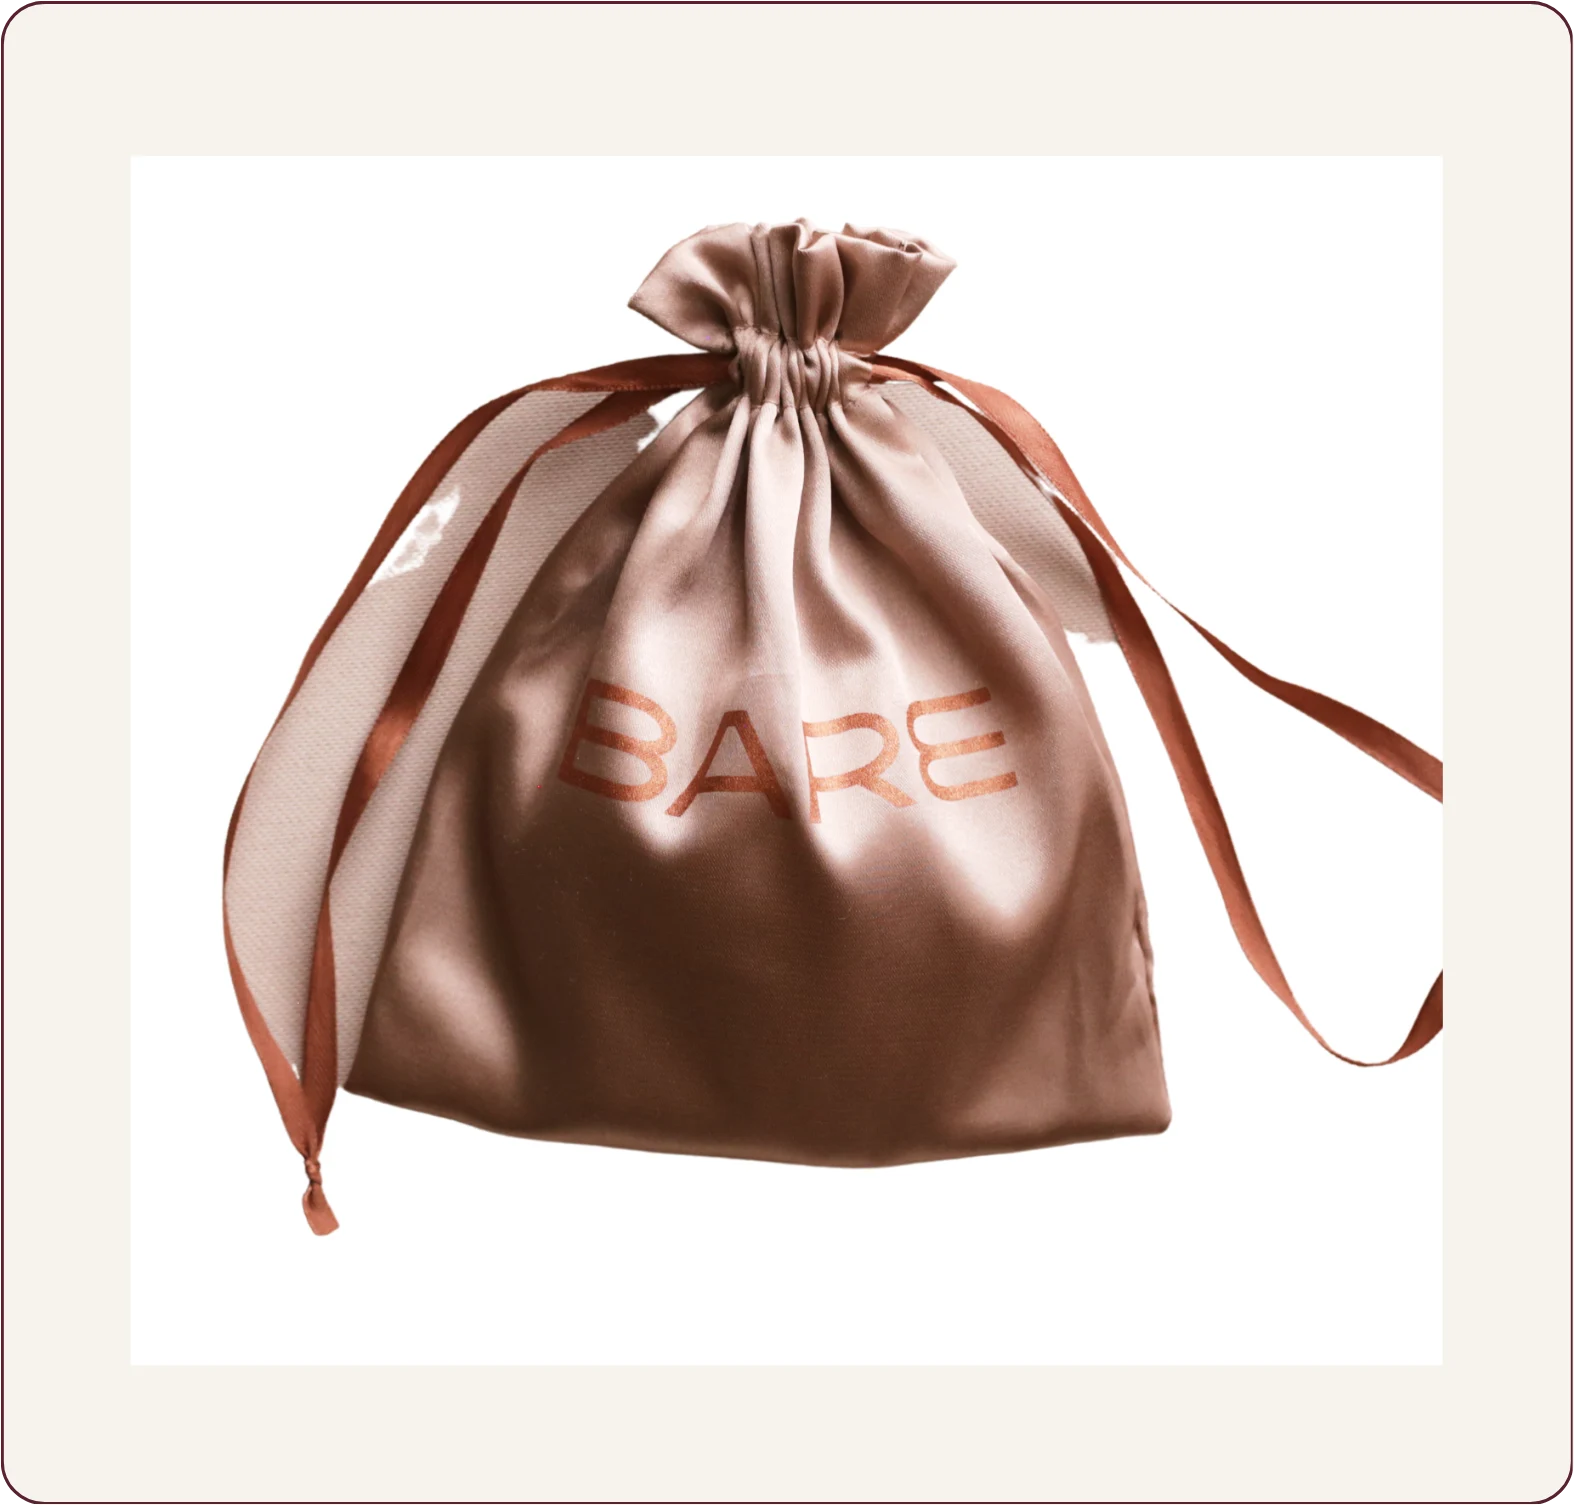
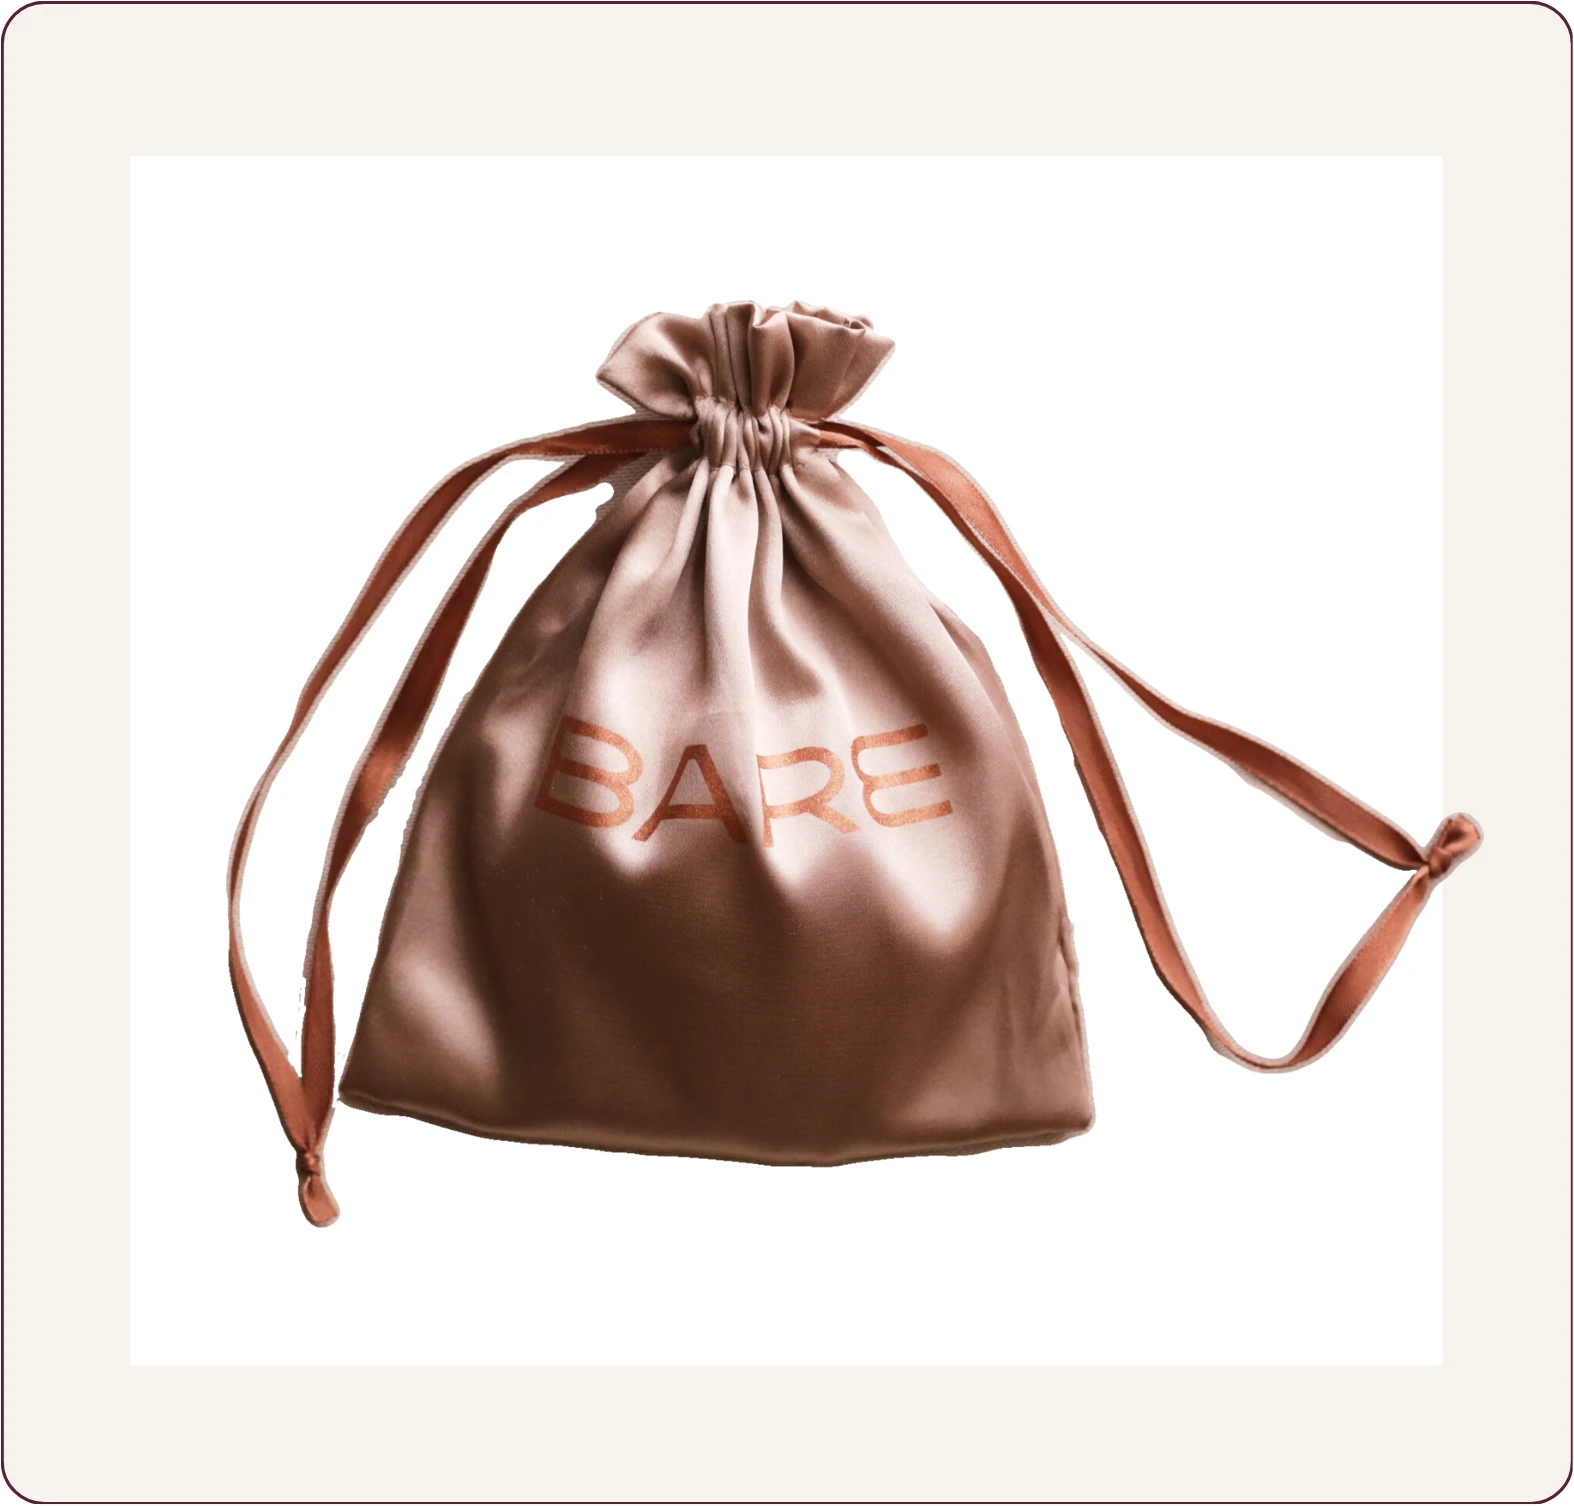
Update zip bags section and make buttons consistent

Changed region(s): [[0.1245, 0.1248, 0.9651, 0.8426], [0.9028, 0.6554, 0.9339, 0.6866]]

diff --git a/resources/views/shop/includes/travel-bags.blade.php b/resources/views/shop/includes/travel-bags.blade.php
@@ -5,9 +5,9 @@
                 <div class="carousel-item active">
                     <div class="row justify-content-center align-items-center">
                         <div class="col-11 col-sm-8 col-md-7 col-lg-6">
-                            <div class="card mb-5 mb-lg-0" style="border:0">
-                                <div class="card-body tw-bg-[#F6F3EE] p-4 p-sm-5">
-                                    <img src="{{ asset('img/shop/products/zip-bag.webp') }}" class="w-100" />
+                            <div class="card mb-5 mb-lg-0" style="background-color:rgba(0,0,0,0); border:0">
+                                <div class="card-body p-0">
+                                    <img src="{{ asset('img/shop/products/zip-bag-2.webp') }}" class="w-100" />
                                 </div>
                             </div>
                         </div>
@@ -20,7 +20,7 @@
                                     <p class="text-white cerebri-sans-pro-medium text-center text-lg-start font-size-90 font-size-lg-100 line-height-xl-170 letter-spacing-10 mb-5">Stay organized and prepared with our complimentary Ziplock Bags. These handy storage solutions are made from tough materials, ensuring both practicality and visibility. Their small size fits perfectly in your purse, gym bag, or suitcase, guaranteeing that your nipple covers are always within reach. A considerate addition to your purchase, offering convenience and peace of mind.</p>
 
                                     <div class="text-center text-lg-start">
-                                        <a href="{{ route('shop.category', 'nipple-covers') }}" class="btn btn-custom-5 cerebri-sans-pro-bold letter-spacing-5 font-size-120 font-size-lg-130 font-size-xl-140 tw-pt-[8px] lg:tw-pt-[10px] px-4">SHOP NIPPLE COVERS</a>
+                                        <a href="{{ route('shop.category', 'nipple-covers') }}" class="btn btn-custom-3 cerebri-sans-pro-bold letter-spacing-5 font-size-120 font-size-lg-130 font-size-xl-140 tw-pt-[8px] lg:tw-pt-[10px] px-4">SHOP NIPPLE COVERS</a>
                                     </div>
                                 </div>
                             </div>
@@ -31,34 +31,8 @@
                 <div class="carousel-item">
                     <div class="row justify-content-center align-items-center">
                         <div class="col-11 col-sm-8 col-md-7 col-lg-6">
-                            <div class="card mb-5 mb-lg-0" style="border:0">
-                                <div class="card-body tw-bg-[#F6F3EE] p-4 p-sm-5">
-                                    <img src="{{ asset('img/shop/products/zip-pouch-1.webp') }}" class="w-100" />
-                                </div>
-                            </div>
-                        </div>
-
-                        <div class="col-lg-6">
-                            <div class="ps-md-4">
-                                <div class="ps-xl-4 ps-xxl-5">
-                                    <p class="text-white cerebri-sans-pro-medium text-center text-lg-start font-size-180 font-size-sm-200 font-size-md-220 line-height-130 mb-3 mb-lg-2">ZIP POUCH</p>
-
-                                    <p class="text-white cerebri-sans-pro-medium text-center text-lg-start font-size-90 font-size-lg-100 line-height-xl-170 letter-spacing-10 mb-5">Care for your nipple covers with our Dust Bags. These essential accessories ensure your covers stay clean and free from debris. Crafted from soft, breathable fabric, the drawstring closure provides a hygienic storage solution, preserving your nipple covers' quality and longevity.</p>
-
-                                    <div class="text-center text-lg-start">
-                                        <a href="{{ route('shop.category', 'nipple-covers') }}" class="btn btn-custom-5 cerebri-sans-pro-bold letter-spacing-5 font-size-120 font-size-lg-130 font-size-xl-140 tw-pt-[8px] lg:tw-pt-[10px] px-4">SHOP NIPPLE COVERS</a>
-                                    </div>
-                                </div>
-                            </div>
-                        </div>
-                    </div>
-                </div>
-
-                <div class="carousel-item">
-                    <div class="row justify-content-center align-items-center">
-                        <div class="col-11 col-sm-8 col-md-7 col-lg-6">
-                            <div class="card mb-5 mb-lg-0" style="border:0">
-                                <div class="card-body tw-bg-[#F6F3EE] p-4 p-sm-5">
+                            <div class="card mb-5 mb-lg-0" style="background-color:rgba(0,0,0,0); border:0">
+                                <div class="card-body p-0">
                                     <img src="{{ asset('img/shop/products/zip-pouch-2.webp') }}" class="w-100" />
                                 </div>
                             </div>
@@ -72,7 +46,7 @@
                                     <p class="text-white cerebri-sans-pro-medium text-center text-lg-start font-size-90 font-size-lg-100 line-height-xl-170 letter-spacing-10 mb-5">Care for your nipple covers with our Dust Bags. These essential accessories ensure your covers stay clean and free from debris. Crafted from soft, breathable fabric, the drawstring closure provides a hygienic storage solution, preserving your nipple covers' quality and longevity.</p>
 
                                     <div class="text-center text-lg-start">
-                                        <a href="{{ route('shop.category', 'nipple-covers') }}" class="btn btn-custom-5 cerebri-sans-pro-bold letter-spacing-5 font-size-120 font-size-lg-130 font-size-xl-140 tw-pt-[8px] lg:tw-pt-[10px] px-4">SHOP NIPPLE COVERS</a>
+                                        <a href="{{ route('shop.category', 'nipple-covers') }}" class="btn btn-custom-3 cerebri-sans-pro-bold letter-spacing-5 font-size-120 font-size-lg-130 font-size-xl-140 tw-pt-[8px] lg:tw-pt-[10px] px-4">SHOP NIPPLE COVERS</a>
                                     </div>
                                 </div>
                             </div>
@@ -83,9 +57,35 @@
                 <div class="carousel-item">
                     <div class="row justify-content-center align-items-center">
                         <div class="col-11 col-sm-8 col-md-7 col-lg-6">
-                            <div class="card mb-5 mb-lg-0" style="border:0">
-                                <div class="card-body tw-bg-[#F6F3EE] p-4 p-sm-5">
-                                    <img src="{{ asset('img/shop/products/drawstring-bag.webp') }}" class="w-100" />
+                            <div class="card mb-5 mb-lg-0" style="background-color:rgba(0,0,0,0); border:0">
+                                <div class="card-body p-0">
+                                    <img src="{{ asset('img/shop/products/zip-pouch-3.webp') }}" class="w-100" />
+                                </div>
+                            </div>
+                        </div>
+
+                        <div class="col-lg-6">
+                            <div class="ps-md-4">
+                                <div class="ps-xl-4 ps-xxl-5">
+                                    <p class="text-white cerebri-sans-pro-medium text-center text-lg-start font-size-180 font-size-sm-200 font-size-md-220 line-height-130 mb-3 mb-lg-2">ZIP POUCH</p>
+
+                                    <p class="text-white cerebri-sans-pro-medium text-center text-lg-start font-size-90 font-size-lg-100 line-height-xl-170 letter-spacing-10 mb-5">Care for your nipple covers with our Dust Bags. These essential accessories ensure your covers stay clean and free from debris. Crafted from soft, breathable fabric, the drawstring closure provides a hygienic storage solution, preserving your nipple covers' quality and longevity.</p>
+
+                                    <div class="text-center text-lg-start">
+                                        <a href="{{ route('shop.category', 'nipple-covers') }}" class="btn btn-custom-3 cerebri-sans-pro-bold letter-spacing-5 font-size-120 font-size-lg-130 font-size-xl-140 tw-pt-[8px] lg:tw-pt-[10px] px-4">SHOP NIPPLE COVERS</a>
+                                    </div>
+                                </div>
+                            </div>
+                        </div>
+                    </div>
+                </div>
+
+                <div class="carousel-item">
+                    <div class="row justify-content-center align-items-center">
+                        <div class="col-11 col-sm-8 col-md-7 col-lg-6">
+                            <div class="card mb-5 mb-lg-0" style="background-color:rgba(0,0,0,0); border:0">
+                                <div class="card-body p-0">
+                                    <img src="{{ asset('img/shop/products/drawstring-bag-2.webp') }}" class="w-100" />
                                 </div>
                             </div>
                         </div>
@@ -98,7 +98,7 @@
                                     <p class="text-white cerebri-sans-pro-medium text-center text-lg-start font-size-90 font-size-lg-100 line-height-xl-170 letter-spacing-10 mb-5">Care for your nipple covers with our Dust Bags. These essential accessories ensure your covers stay clean and free from debris. Crafted from soft, breathable fabric, the drawstring closure provides a hygienic storage solution, preserving your nipple covers' quality and longevity.</p>
 
                                     <div class="text-center text-lg-start">
-                                        <a href="{{ route('shop.category', 'nipple-covers') }}" class="btn btn-custom-5 cerebri-sans-pro-bold letter-spacing-5 font-size-120 font-size-lg-130 font-size-xl-140 tw-pt-[8px] lg:tw-pt-[10px] px-4">SHOP NIPPLE COVERS</a>
+                                        <a href="{{ route('shop.category', 'nipple-covers') }}" class="btn btn-custom-3 cerebri-sans-pro-bold letter-spacing-5 font-size-120 font-size-lg-130 font-size-xl-140 tw-pt-[8px] lg:tw-pt-[10px] px-4">SHOP NIPPLE COVERS</a>
                                     </div>
                                 </div>
                             </div>

diff --git a/resources/views/home/index.blade.php b/resources/views/home/index.blade.php
@@ -84,7 +84,7 @@
                                 <p class="text-white cerebri-sans-pro-medium text-center text-md-start font-size-90 font-size-lg-100 line-height-170 letter-spacing-10 mb-5">It all started with a simple desire – to be unburdened by traditional undergarments that didn't align with our comfort and confidence. We understand the frustration of feeling suffocated by clothing that just don't "get" you. That's why we started this journey - making comfort accessible to everyone.</p>
 
                                 <div class="text-center text-md-start">
-                                    <a href="{{ route('about.index') }}" class="btn btn-custom-5 cerebri-sans-pro-bold letter-spacing-5 font-size-120 font-size-lg-130 font-size-xl-140 tw-pt-[8px] lg:tw-pt-[10px] px-4" style="padding-top:10px">LEARN MORE</a>
+                                    <a href="{{ route('about.index') }}" class="btn btn-custom-3 cerebri-sans-pro-bold letter-spacing-5 font-size-120 font-size-lg-130 font-size-xl-140 tw-pt-[8px] lg:tw-pt-[10px] px-4" style="padding-top:10px">LEARN MORE</a>
                                 </div>
                             </div>
                         </div>
